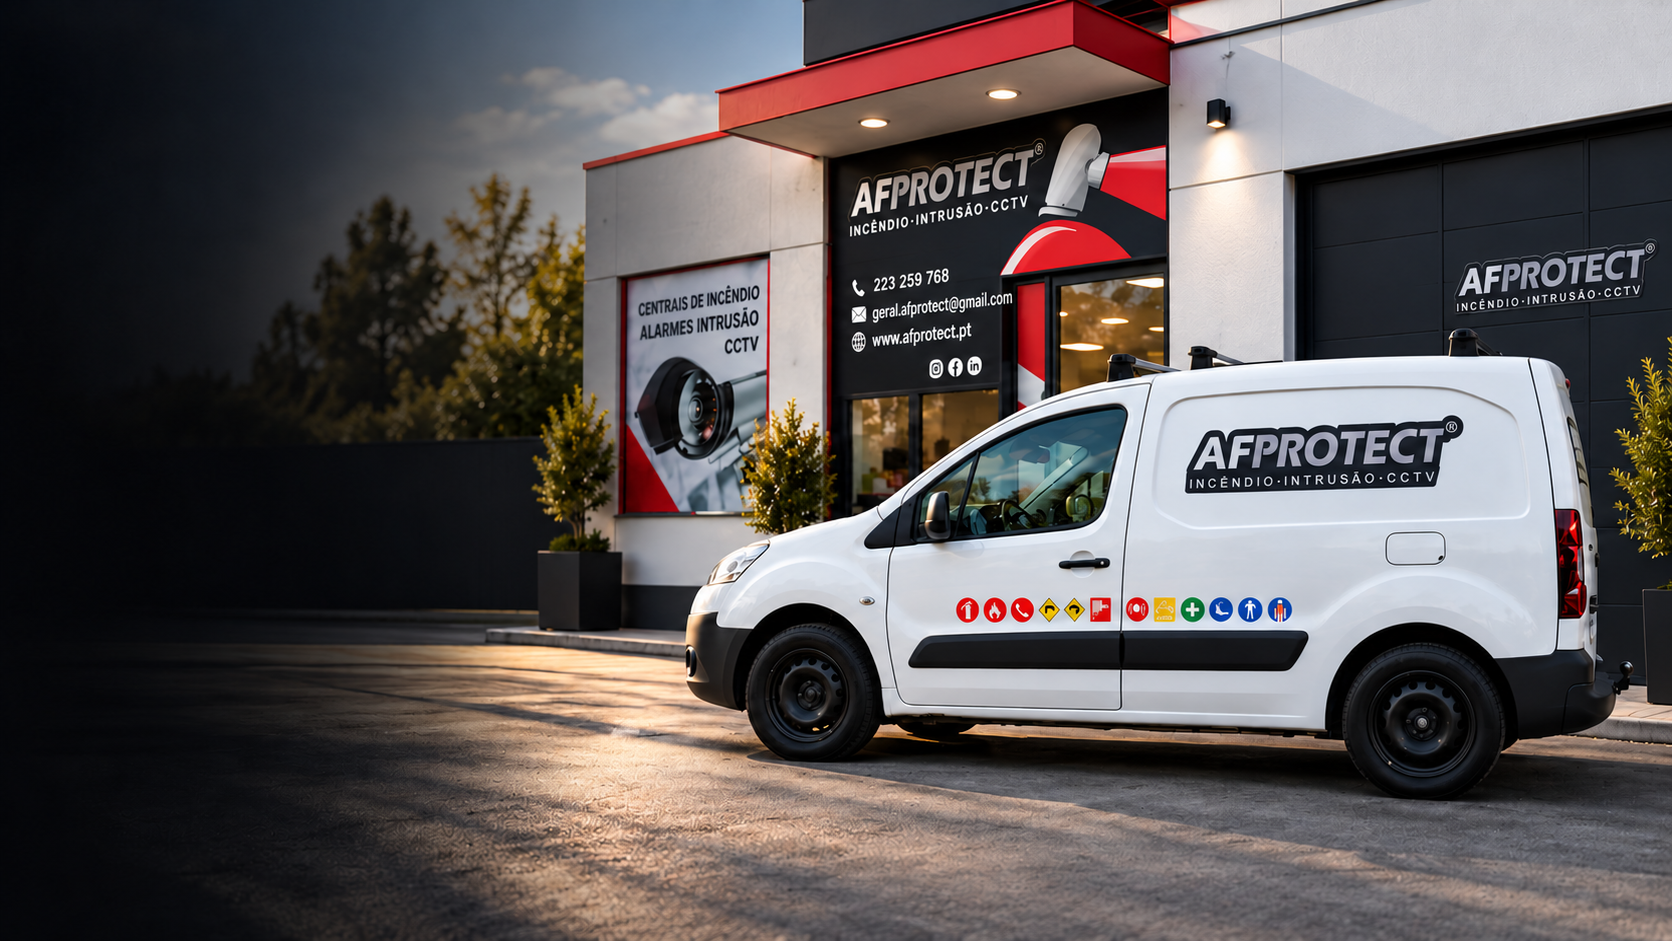
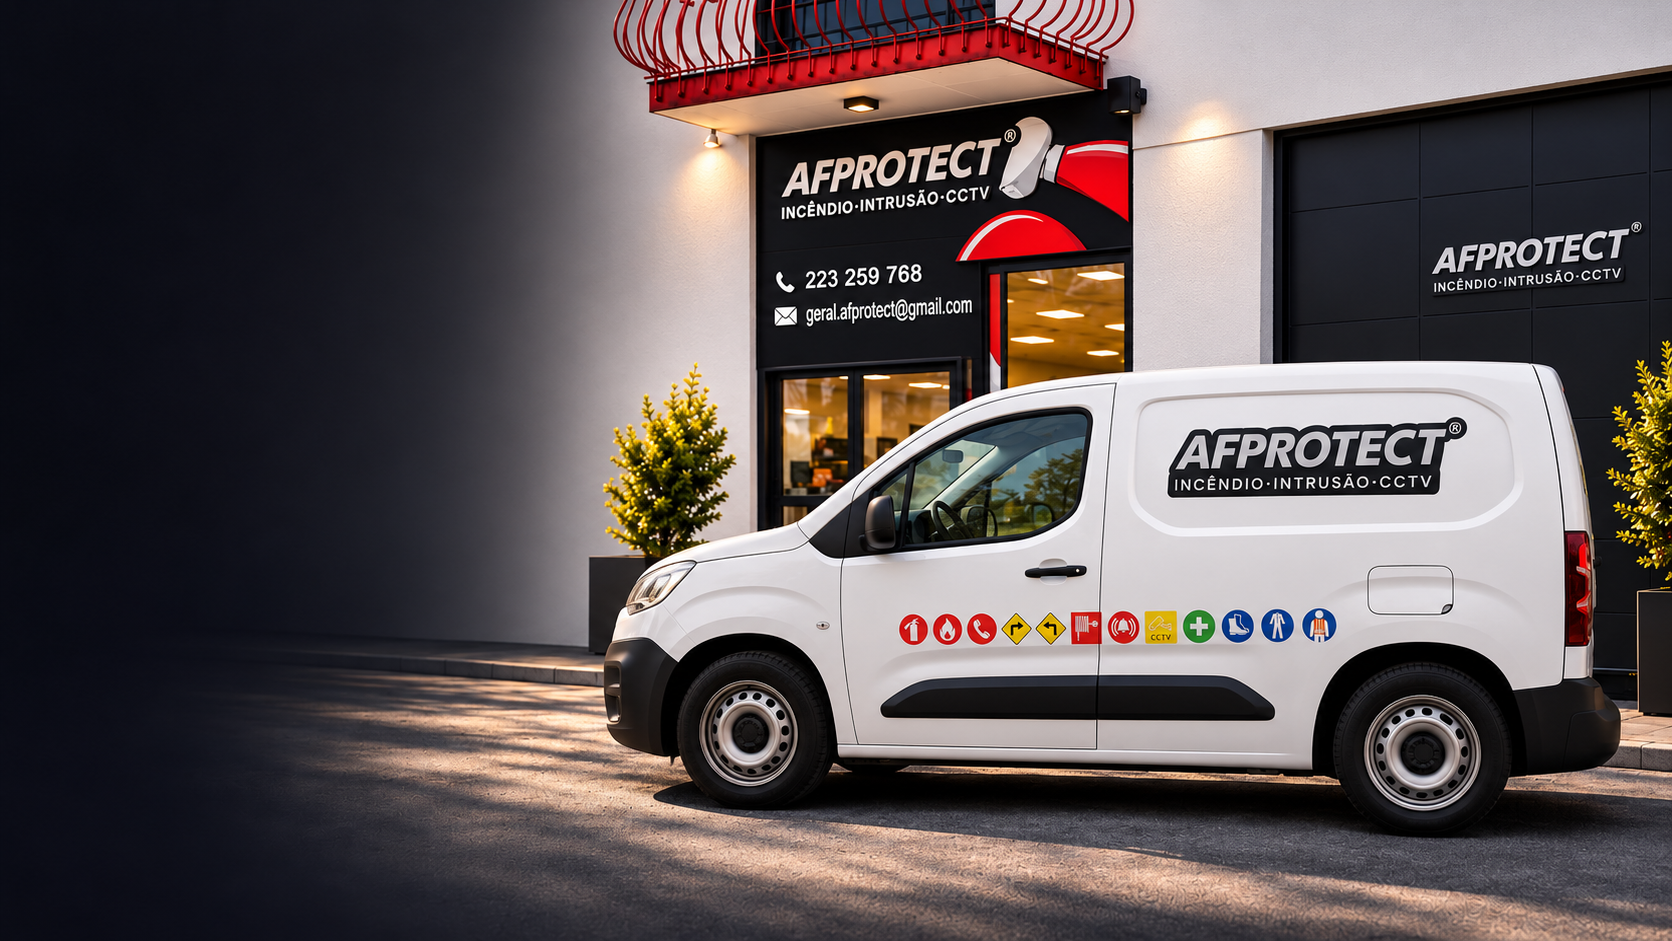
atual

diff --git a/src/clean.css b/src/clean.css
@@ -1,0 +1,199 @@
+/* Public-site refinements; the hero retains its original styles. */
+.site-shell { --paper:#fafaf8; --line:#e2e2dd; --muted:#6e706b; background:var(--paper); }
+.site-shell .wrap:not(.hero__content) { width:min(100% - 56px,1320px); }
+.site-shell .section { padding-block:80px; }
+.site-shell .section-label { margin-bottom:30px; gap:0; color:var(--muted); font-size:11px; letter-spacing:.12em; }
+.site-shell .section-label > span:first-child { display:none; }
+.site-shell h2 { font-size:clamp(2.1rem,3.8vw,3.6rem); line-height:1.08; letter-spacing:-.045em; }
+.site-shell .section-intro { gap:60px; margin-bottom:40px; }
+.site-shell .section-intro p { font-size:14px; line-height:1.8; }
+.site-shell .header { height:80px; padding-inline:28px; grid-template-columns:180px 1fr 180px; background:rgba(250,250,248,.97); border-color:var(--line); }
+.site-shell .header__nav { gap:26px; }
+.site-shell .header__nav a { font-family:"Manrope",sans-serif; font-size:12px; text-transform:none; letter-spacing:0; }
+.site-shell .header__cta { padding:13px 16px; color:white; background:var(--red); border-radius:4px; font-size:10px; }
+.site-shell .about__grid { grid-template-columns:1fr 1fr; gap:80px; }
+.site-shell .about__copy { transform:none; border:0; padding:0; }
+.site-shell .about__copy .lead { font-size:20px; line-height:1.5; margin-top:0; }
+.site-shell .about__copy p { font-size:14px; }
+.site-shell .about__facts { margin-top:42px; }
+.site-shell .about__facts div { border-right:0; }
+.site-shell .about__facts strong { font-size:27px; }
+.site-shell .services { background:#f0f1ed; color:var(--ink); }
+.site-shell .clients::before { content:none; }
+.site-shell .section-intro--light p { color:var(--muted); }
+.site-shell .service-list { grid-template-columns:repeat(3,minmax(0,1fr)); border:0; background:none; gap:0 36px; }
+.site-shell .service { min-height:190px; padding:25px 0; border-top:1px solid #d2d5cd; background:transparent; gap:12px; transition:color .2s; }
+.site-shell .service::before,.site-shell .service > small,.site-shell .service > span:first-child,.site-shell .service__action { display:none; }
+.site-shell .service h3 { color:var(--ink); margin:0; font-size:21px; line-height:1.25; grid-row:1; }
+.site-shell .service p { color:#656961; align-self:start; grid-row:2; font-size:13px; line-height:1.7; }
+.site-shell .service svg { grid-row:2; color:var(--red); }
+.site-shell .service:hover { padding:25px 0; background:transparent; transform:none; }
+.site-shell .service:hover h3 { color:var(--red); }
+.site-shell .products .section-intro { grid-template-columns:1fr 1fr; }
+.site-shell .products__intro-copy span { display:inline; white-space:normal; }
+.site-shell .products__intro-copy span + span::before { content:" "; }
+.site-shell .equipment-showcase { gap:30px; grid-template-columns:1fr 1.1fr 1fr; }
+.site-shell .equipment-list { padding-inline:0; }
+.site-shell .equipment-list__number { font-size:13px; color:#8b8e86; letter-spacing:0; }
+.site-shell .equipment-list__trigger { grid-template-columns:22px 1fr; min-height:78px; }
+.site-shell .equipment-list__copy strong { font-size:13px; line-height:1.4; }
+.site-shell .equipment-list__copy > span { opacity:1; transform:none; font-size:11px; }
+.site-shell .equipment-feature { background:#f1f2ee; border-radius:8px; padding:20px; }
+.site-shell .equipment-feature__image { background:transparent; }
+.site-shell .equipment-feature h3 { font-size:24px; }
+.site-shell .equipment-feature__meta { display:none; }
+.site-shell .info-hub__navigation { background:#f0f1ed; border-color:var(--line); }
+.site-shell .info-hub,
+.site-shell .credentials,
+.site-shell .knowledge { background:#f0f1ed; }
+.site-shell .credential { grid-template-columns:88px 180px minmax(0,1fr) max-content; gap:24px; padding:24px 0; border-color:#d2d5cd; }
+.site-shell .credential__logo,.site-shell .credential__wordmark { width:72px; height:68px; border:0; border-radius:4px; background:#fff; }
+.site-shell .credential p { font-size:13px; line-height:1.7; }
+.site-shell .credential__date strong { font-size:11px; }
+.site-shell .clients { background:var(--paper); color:var(--ink); }
+.site-shell .clients__head { margin-bottom:32px; }
+.site-shell .clients__head p { color:var(--muted); font-size:14px; }
+.site-shell .clients__grid { border:0; gap:16px; }
+.site-shell .client { flex:1 1 140px; width:auto; height:100px; padding:12px; border:0; background:transparent; }
+.site-shell .client > span { display:none; }
+.site-shell .client__brand { height:76px; width:100%; margin:0; padding:16px; background:transparent; border-radius:0; }
+.site-shell .client__brand img { max-height:48px; max-width:100%; }
+.site-shell .client:hover { background:transparent; }
+.site-shell .client:hover .client__brand { transform:none; }
+.site-shell .contact { padding-block:70px; background:#191c1a; }
+.site-shell .contact .section-label,.site-shell .contact .section-label span { color:#b7bcb4; }
+.site-shell .contact h2 { font-size:clamp(2.3rem,4.5vw,4rem); line-height:1.1; }
+.site-shell .contact h2 em { color:white; }
+.site-shell .contact__email { margin:32px 0 44px; color:#fff; border-color:#50554f; font-size:clamp(1.1rem,2.2vw,1.8rem); }
+.site-shell .contact__email svg { color:#ed6974; }
+.site-shell .contact__grid { border-color:#393e38; gap:36px; font-size:14px; }
+.site-shell .contact__grid > div > span { color:#b7bcb4; }
+.site-shell .footer { background:#191c1a; border-top:1px solid #393e38; }
+.site-shell :is(button,a):focus-visible { outline:2px solid var(--red); outline-offset:5px; }
+@media (max-width:1100px) {
+.site-shell .header__nav { gap:18px; }
+.site-shell .credential { grid-template-columns:80px 150px 1fr; }
+.site-shell .credential__date { grid-column:3; }
+}
+@media (max-width:1000px) {
+.site-shell .header { height:64px; grid-template-columns:1fr auto; }
+.site-shell .section-intro,.site-shell .about__grid,.site-shell .products .section-intro { grid-template-columns:1fr; gap:24px; }
+.site-shell .section-intro p { margin:0; }
+.site-shell .service-list { grid-template-columns:repeat(2,minmax(0,1fr)); }
+.site-shell .clients__head { grid-template-columns:1fr; gap:20px; }
+}
+@media (max-width:640px) {
+.site-shell .wrap:not(.hero__content) { width:calc(100% - 32px); }
+.site-shell .section { padding-block:54px; }
+.site-shell .header { padding-inline:16px; }
+.site-shell .section-label { margin-bottom:24px; }
+.site-shell .about__facts { margin-top:28px; }
+.site-shell .service-list { grid-template-columns:1fr; }
+.site-shell .service { min-height:130px; }
+.site-shell .service h3 { font-size:20px; }
+.site-shell .credential { grid-template-columns:72px 1fr; gap:16px; }
+.site-shell .credential__date { grid-column:2; }
+.site-shell .info-hub__navigation-inner > span { display:none; }
+.site-shell .info-hub__tabs { width:100%; }
+.site-shell .info-hub__tabs button { flex:1; }
+.site-shell .clients__grid { gap:8px; }
+.site-shell .client { flex-basis:calc(50% - 8px); }
+.site-shell .contact { padding-block:54px; }
+.site-shell .contact__grid { grid-template-columns:1fr; }
+}
+@media (max-width:900px) {
+.site-shell .equipment-showcase { display:none; }
+}
+.site-shell .services { background:#101113; color:#fff; }
+.site-shell .services .section-label { color:#b9bbc0; }
+.site-shell .section-intro--light p { color:#b9bbc0; }
+.site-shell .service { border-color:#383b40; }
+.site-shell .service h3 { color:#fff; }
+.site-shell .service p { color:#b9bbc0; }
+.site-shell .service svg,
+.site-shell .service:hover h3,
+.site-shell .service:focus-visible h3,
+.site-shell .service:hover svg { color:var(--red); }
+.site-shell .contact { background:var(--red); }
+.site-shell .contact .section-label,.site-shell .contact .section-label span { color:#fff; }
+.site-shell .contact h2 em { color:#151515; }
+.site-shell .contact__email { color:#fff; border-color:rgba(255,255,255,.6); }
+.site-shell .contact__email svg { color:#fff; }
+.site-shell .contact__grid { border-color:rgba(255,255,255,.35); }
+.site-shell .contact__grid > div > span { color:#fff; }
+
+/* Smaller hero copy, aligned with the other sections. */
+.site-shell .hero {
+  padding-top:80px;
+}
+.site-shell .hero__content {
+  width:min(100% - 56px,1320px);
+  min-height:0;
+  height:100%;
+  padding:40px 0;
+  justify-content:center;
+}
+.site-shell .hero__image { inset:80px 0 0; }
+.site-shell .hero h1 {
+  max-width:560px;
+  margin-bottom:24px;
+  font-size:clamp(2.7rem,4.2vw,4.2rem);
+  line-height:1.04;
+  letter-spacing:-.045em;
+}
+.site-shell .hero__eyebrow { margin-bottom:24px; font-size:10px; }
+.site-shell .hero__bottom { width:min(480px,52%); }
+.site-shell .hero__bottom > p { font-size:14px; margin-bottom:24px; line-height:1.7; }
+@media (max-width:1000px) {
+  .site-shell .hero { padding-top:64px; }
+  .site-shell .hero__image { inset:64px 0 0; }
+  .site-shell .hero__bottom { width:min(440px,70%); }
+}
+@media (max-width:640px) {
+  .site-shell .hero__content { width:calc(100% - 32px); padding:36px 0; justify-content:flex-start; }
+  .site-shell .hero h1 { font-size:clamp(2.2rem,9vw,2.8rem); margin-bottom:18px; }
+  .site-shell .hero__eyebrow { font-size:8px; white-space:normal; margin-bottom:22px; }
+  .site-shell .hero__bottom { width:100%; max-width:310px; }
+  .site-shell .hero__bottom > p { font-size:12px; margin-bottom:20px; }
+}
+
+/* Fill the hero without exposing the background around the photograph. */
+.site-shell .hero__image {
+  background:#101113;
+}
+.site-shell .hero .hero__image img {
+  object-fit:cover;
+  object-position:right center;
+  transform:scale(1.055);
+  transform-origin:right center;
+}
+@media (max-width:640px) {
+  .site-shell .hero .hero__image img {
+    object-position:center bottom;
+    transform-origin:center bottom;
+  }
+}
+
+
+.site-shell .contact__facebook {
+  display:inline-flex;
+  align-items:center;
+  gap:10px;
+  margin-top:32px;
+  padding-block:8px;
+  color:#fff;
+  font-size:14px;
+  text-underline-offset:5px;
+}
+.site-shell .contact__facebook svg { width:18px; height:18px; }
+.site-shell .contact__facebook:hover { text-decoration:underline; }
+
+/* Stronger left-side contrast, fading out before the right-hand scene. */
+.site-shell .hero__image::after {
+  background:linear-gradient(90deg,rgba(5,7,10,.97) 0%,rgba(5,7,10,.86) 25%,rgba(5,7,10,.52) 43%,rgba(5,7,10,.12) 62%,transparent 80%);
+}
+@media (max-width:640px) {
+  .site-shell .hero__image::after {
+    background:linear-gradient(90deg,rgba(5,7,10,.7),rgba(5,7,10,.2) 75%,transparent),linear-gradient(180deg,rgba(5,7,10,.88),rgba(5,7,10,.6) 40%,rgba(5,7,10,.08) 80%);
+  }
+}

diff --git a/src/App.jsx b/src/App.jsx
@@ -1,10 +1,10 @@
 import { useState } from "react";
+import "./clean.css";
 import { ArrowUpRight, Check, ChevronDown, MapPin } from "lucide-react";
 import Header from "./components/Header";
 import Hero from "./components/Hero";
 import ProductShowcase from "./components/ProductShowcase";
-import ContactForm from "./components/ContactForm";
-import { openContactForm, useSiteContent } from "./content";
+import { openContactEmail, useSiteContent } from "./content";
 
 const services = [
   ["01", "Extintores", "Venda, instalação, manutenção e inspeção técnica.", true],
@@ -112,7 +112,7 @@ function App() {
   };
 
   return (
-    <>
+    <div className="site-shell">
       <Header />
       <main>
         <Hero content={content?.hero} />
@@ -141,7 +141,7 @@ function App() {
             </div>
             <div className="service-list">
               {liveServices.map(({ number, title, description, featured }) => (
-                <button type="button" onClick={() => openContactForm(`Pedido de informação — Serviço de ${title}`)} className={`service ${featured ? "service--featured" : ""}`} aria-label={`Pedir informação sobre ${title}`} key={number}>
+                <button type="button" onClick={() => openContactEmail(`Pedido de informação — Serviço de ${title}`)} className={`service ${featured ? "service--featured" : ""}`} aria-label={`Pedir informação sobre ${title}`} key={number}>
                   <span>{number}</span>{featured && <small>Em destaque</small>}<h3>{title}</h3><p>{description}</p><span className="service__action">Pedir informação</span><ArrowUpRight aria-hidden="true" />
                 </button>
               ))}
@@ -265,18 +265,18 @@ function App() {
           <div className="wrap">
             <SectionLabel index="08" light>Contactos</SectionLabel>
             <h2>Vamos proteger <em>o seu espaço?</em></h2>
-            <button type="button" className="contact__email" onClick={() => openContactForm("Pedido de orçamento")}><span>{contact.email}</span><ArrowUpRight /></button>
+            <a className="contact__email" href={`mailto:${contact.email}`}><span>{contact.email}</span><ArrowUpRight aria-hidden="true" /></a>
             <div className="contact__grid">
               <div><span>Telefone</span>{contact.phones.map((phone) => <a key={phone} href={`tel:${phone.replace(/\s/g, "")}`}>{phone}</a>)}</div>
               <div><span>Morada</span><a href={contact.mapsUrl} target="_blank" rel="noreferrer"><MapPin /> {contact.address.split("\n").map((line, index) => <span className="contact__address-line" key={line}>{index > 0 && <br />}{line}</span>)}</a></div>
               <div><span>Horário</span><p>{contact.schedule.split("\n").map((line, index) => <span key={line}>{index > 0 && <br />}{line}</span>)}</p></div>
             </div>
+            <a className="contact__facebook" href="https://www.facebook.com/afprotect/" target="_blank" rel="noopener noreferrer">Siga-nos no Facebook <ArrowUpRight aria-hidden="true" /></a>
           </div>
         </section>
       </main>
-      <ContactForm />
       <footer className="footer"><div className="wrap"><img src="/images/logo-afprotect.png" alt="AFPROTECT" /><p>© 2026 AFPROTECT — Sociedade Unipessoal, Lda.</p><a href="#inicio">Voltar ao início ↑</a></div></footer>
-    </>
+    </div>
   );
 }
 

diff --git a/src/components/Header.jsx b/src/components/Header.jsx
@@ -1,8 +1,8 @@
 import { useEffect, useState } from "react";
 import { ArrowUpRight, Menu, X } from "lucide-react";
-import { openContactForm } from "../content";
+import { openContactEmail } from "../content";
 
-const links = [["Início", "#inicio"], ["Sobre Nós", "#empresa"], ["Serviços", "#servicos"], ["Produtos", "#produtos"], ["Área Técnica", "#certificacoes"], ["Clientes", "#clientes"], ["Contactos", "#contactos"]];
+const links = [["Empresa", "#empresa"], ["Serviços", "#servicos"], ["Produtos", "#produtos"], ["Área Técnica", "#certificacoes"], ["Contactos", "#contactos"]];
 
 export default function Header() {
   const [open, setOpen] = useState(false);
@@ -44,11 +44,11 @@ export default function Header() {
   return <header className="header">
     <a href="#inicio" className="header__logo" aria-label="AFPROTECT — Início" onClick={() => setActiveHref("#inicio")}><img src="/images/logo-afprotect.png" alt="AFPROTECT" /></a>
     <nav className="header__nav" aria-label="Navegação principal">{links.map(([label, href]) => <a key={href} href={href} className={activeHref === href ? "is-active" : undefined} aria-current={activeHref === href ? "page" : undefined} onClick={() => setActiveHref(href)}>{label}</a>)}</nav>
-    <button className="header__cta" type="button" onClick={() => openContactForm("Pedido de orçamento")}>Pedir orçamento <ArrowUpRight /></button>
+    <button className="header__cta" type="button" onClick={() => openContactEmail("Pedido de orçamento")}>Pedir orçamento <ArrowUpRight /></button>
     <button className="header__toggle" onClick={() => setOpen(!open)} aria-expanded={open} aria-controls="mobile-menu" aria-label={open ? "Fechar menu" : "Abrir menu"}>{open ? <X /> : <Menu />}</button>
     <div id="mobile-menu" className={`mobile-menu ${open ? "is-open" : ""}`} aria-hidden={!open}>
       <span>Menu / AFPROTECT</span>{links.map(([label, href], i) => <a key={href} href={href} className={activeHref === href ? "is-active" : undefined} aria-current={activeHref === href ? "page" : undefined} onClick={() => { setActiveHref(href); setOpen(false); }}><small>0{i + 1}</small>{label}</a>)}
-      <button type="button" onClick={() => { setOpen(false); openContactForm("Pedido de orçamento"); }}>Pedir orçamento <ArrowUpRight /></button>
+      <button type="button" onClick={() => { setOpen(false); openContactEmail("Pedido de orçamento"); }}>Pedir orçamento <ArrowUpRight /></button>
     </div>
   </header>;
 }

diff --git a/src/components/Hero.jsx b/src/components/Hero.jsx
@@ -1,5 +1,5 @@
 import { ArrowDown, ArrowUpRight } from "lucide-react";
-import { openContactForm } from "../content";
+import { openContactEmail } from "../content";
 
 export default function Hero({ content }) {
   return (
@@ -11,15 +11,15 @@ export default function Hero({ content }) {
         <div className="hero__bottom">
           <p>{content?.description || "Extintores, alarmes e câmaras de videovigilância, com instalação, manutenção e acompanhamento técnico desde 2015."}</p>
           <div className="hero__actions">
-            <button className="button button--primary" type="button" onClick={() => openContactForm("Pedido de orçamento")}>Pedir orçamento <ArrowUpRight /></button>
+            <button className="button button--primary" type="button" onClick={() => openContactEmail("Pedido de orçamento")}>Pedir orçamento <ArrowUpRight /></button>
             <a className="button button--secondary" href="#servicos">Conhecer serviços</a>
           </div>
         </div>
       </div>
       <figure className="hero__image">
         <picture>
-          <source media="(max-width: 640px)" srcSet={content?.mobileImage || "/images/heromobile-afprotect.jpg"} />
-          <img src={content?.desktopImage || "/images/hero-afprotect.jpg"} alt="Instalações e viatura de assistência técnica da AFPROTECT" />
+          <source media="(max-width: 640px)" srcSet={content?.mobileImage || "/images/hero-montra-carrinha-wide.png"} />
+          <img src={content?.desktopImage || "/images/hero-montra-carrinha-wide.png"} alt="Instalações e viatura de assistência técnica da AFPROTECT" />
         </picture>
         <figcaption>{content?.caption || "Manutenção técnica / AFPROTECT"}</figcaption>
       </figure>

diff --git a/src/components/ProductShowcase.jsx b/src/components/ProductShowcase.jsx
@@ -1,6 +1,6 @@
 import { useState } from "react";
 import { ArrowUpRight, ChevronDown } from "lucide-react";
-import { openContactForm } from "../content";
+import { openContactEmail } from "../content";
 
 function ProductListItem({ product, active, onSelect }) {
   const { number, name, description } = product;
@@ -47,7 +47,7 @@ function MobileProductItem({ product, index, open, onToggle }) {
           <img src={image} alt={name} loading="lazy" />
         </div>
         <p>{description}</p>
-        <button type="button" onClick={() => openContactForm(`Pedido de informação — ${name}`)}>Pedir informação <ArrowUpRight aria-hidden="true" /></button>
+        <button type="button" onClick={() => openContactEmail(`Pedido de informação — ${name}`)}>Pedir informação <ArrowUpRight aria-hidden="true" /></button>
       </div>
     </article>
   );
@@ -80,7 +80,7 @@ export default function ProductShowcase({ products }) {
           <div className="equipment-feature__meta"><span>{number}</span><span>Equipamentos</span></div>
           <h3>{name}</h3>
           <p>{description}</p>
-          <button type="button" onClick={() => openContactForm(`Pedido de informação — ${name}`)}>Pedir informação <ArrowUpRight aria-hidden="true" /></button>
+          <button type="button" onClick={() => openContactEmail(`Pedido de informação — ${name}`)}>Pedir informação <ArrowUpRight aria-hidden="true" /></button>
         </div>
 
         <ol className="equipment-list equipment-list--right" start="6">

diff --git a/src/content.js b/src/content.js
@@ -1,5 +1,7 @@
 import { useEffect, useState } from "react";
 
+let contactEmail = "geral.afprotect@gmail.com";
+
 export function useSiteContent() {
   const [content, setContent] = useState(null);
 
@@ -10,12 +12,12 @@ export function useSiteContent() {
         if (!response.ok) throw new Error("Não foi possível carregar os conteúdos.");
         return response.json();
       })
-      .then((data) => { if (active) setContent(data); })
+      .then((data) => { if (active) { contactEmail = data.contact?.email || contactEmail; setContent(data); } })
       .catch((error) => {
         console.error(error);
         fetch("/content.json", { cache: "no-store" })
           .then((response) => response.json())
-          .then((data) => { if (active) setContent(data); })
+          .then((data) => { if (active) { contactEmail = data.contact?.email || contactEmail; setContent(data); } })
           .catch((fallbackError) => console.error(fallbackError));
       });
     return () => { active = false; };
@@ -24,6 +26,6 @@ export function useSiteContent() {
   return content;
 }
 
-export function openContactForm(context = "Pedido de orçamento") {
-  window.dispatchEvent(new CustomEvent("afprotect:contact", { detail: { context } }));
+export function openContactEmail(context = "Pedido de orçamento") {
+  window.location.href = `mailto:${contactEmail}?subject=${encodeURIComponent(context)}`;
 }
